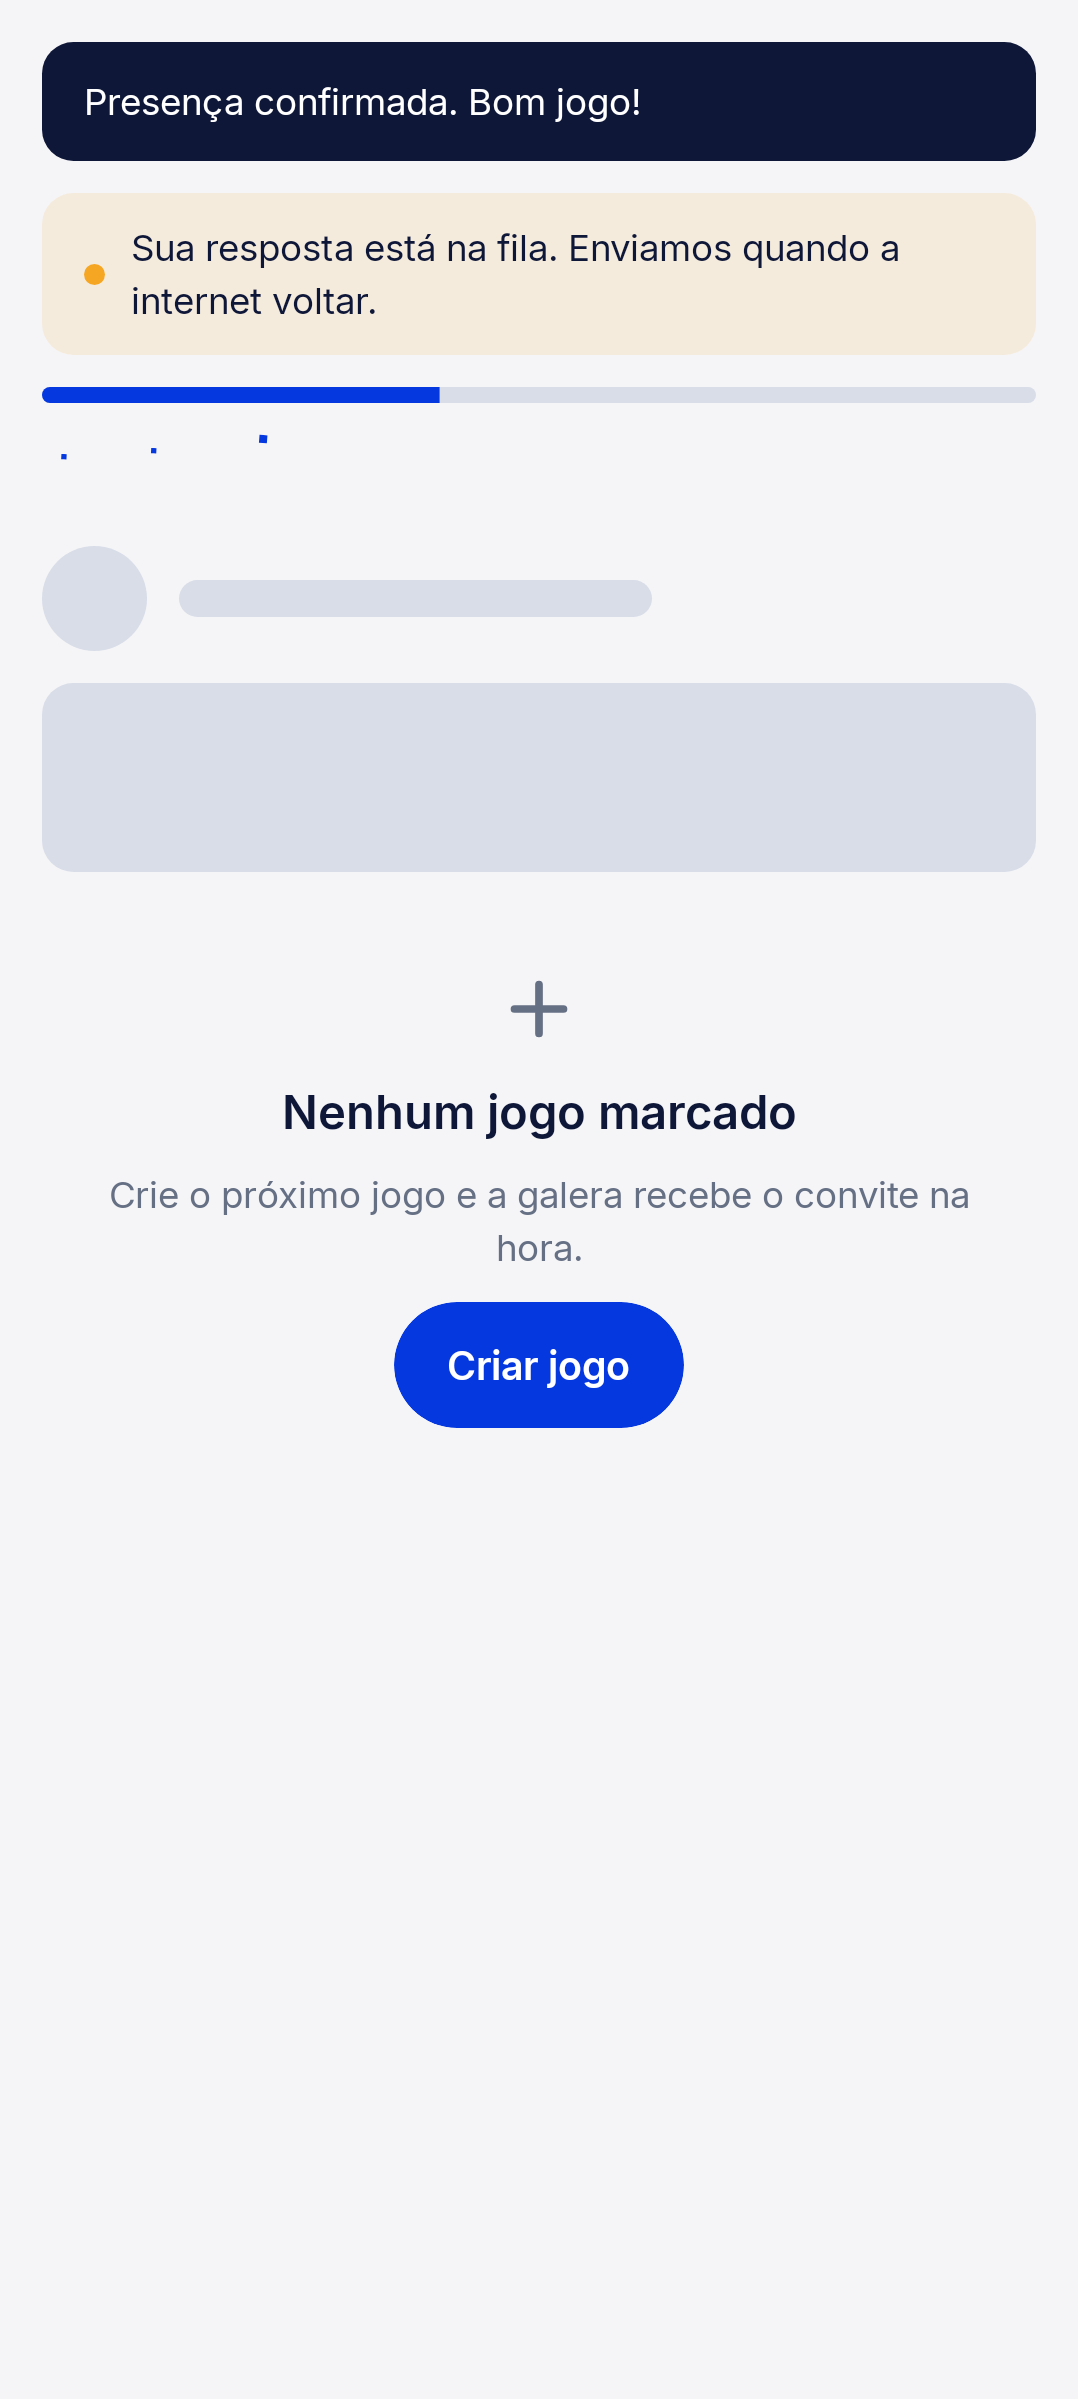
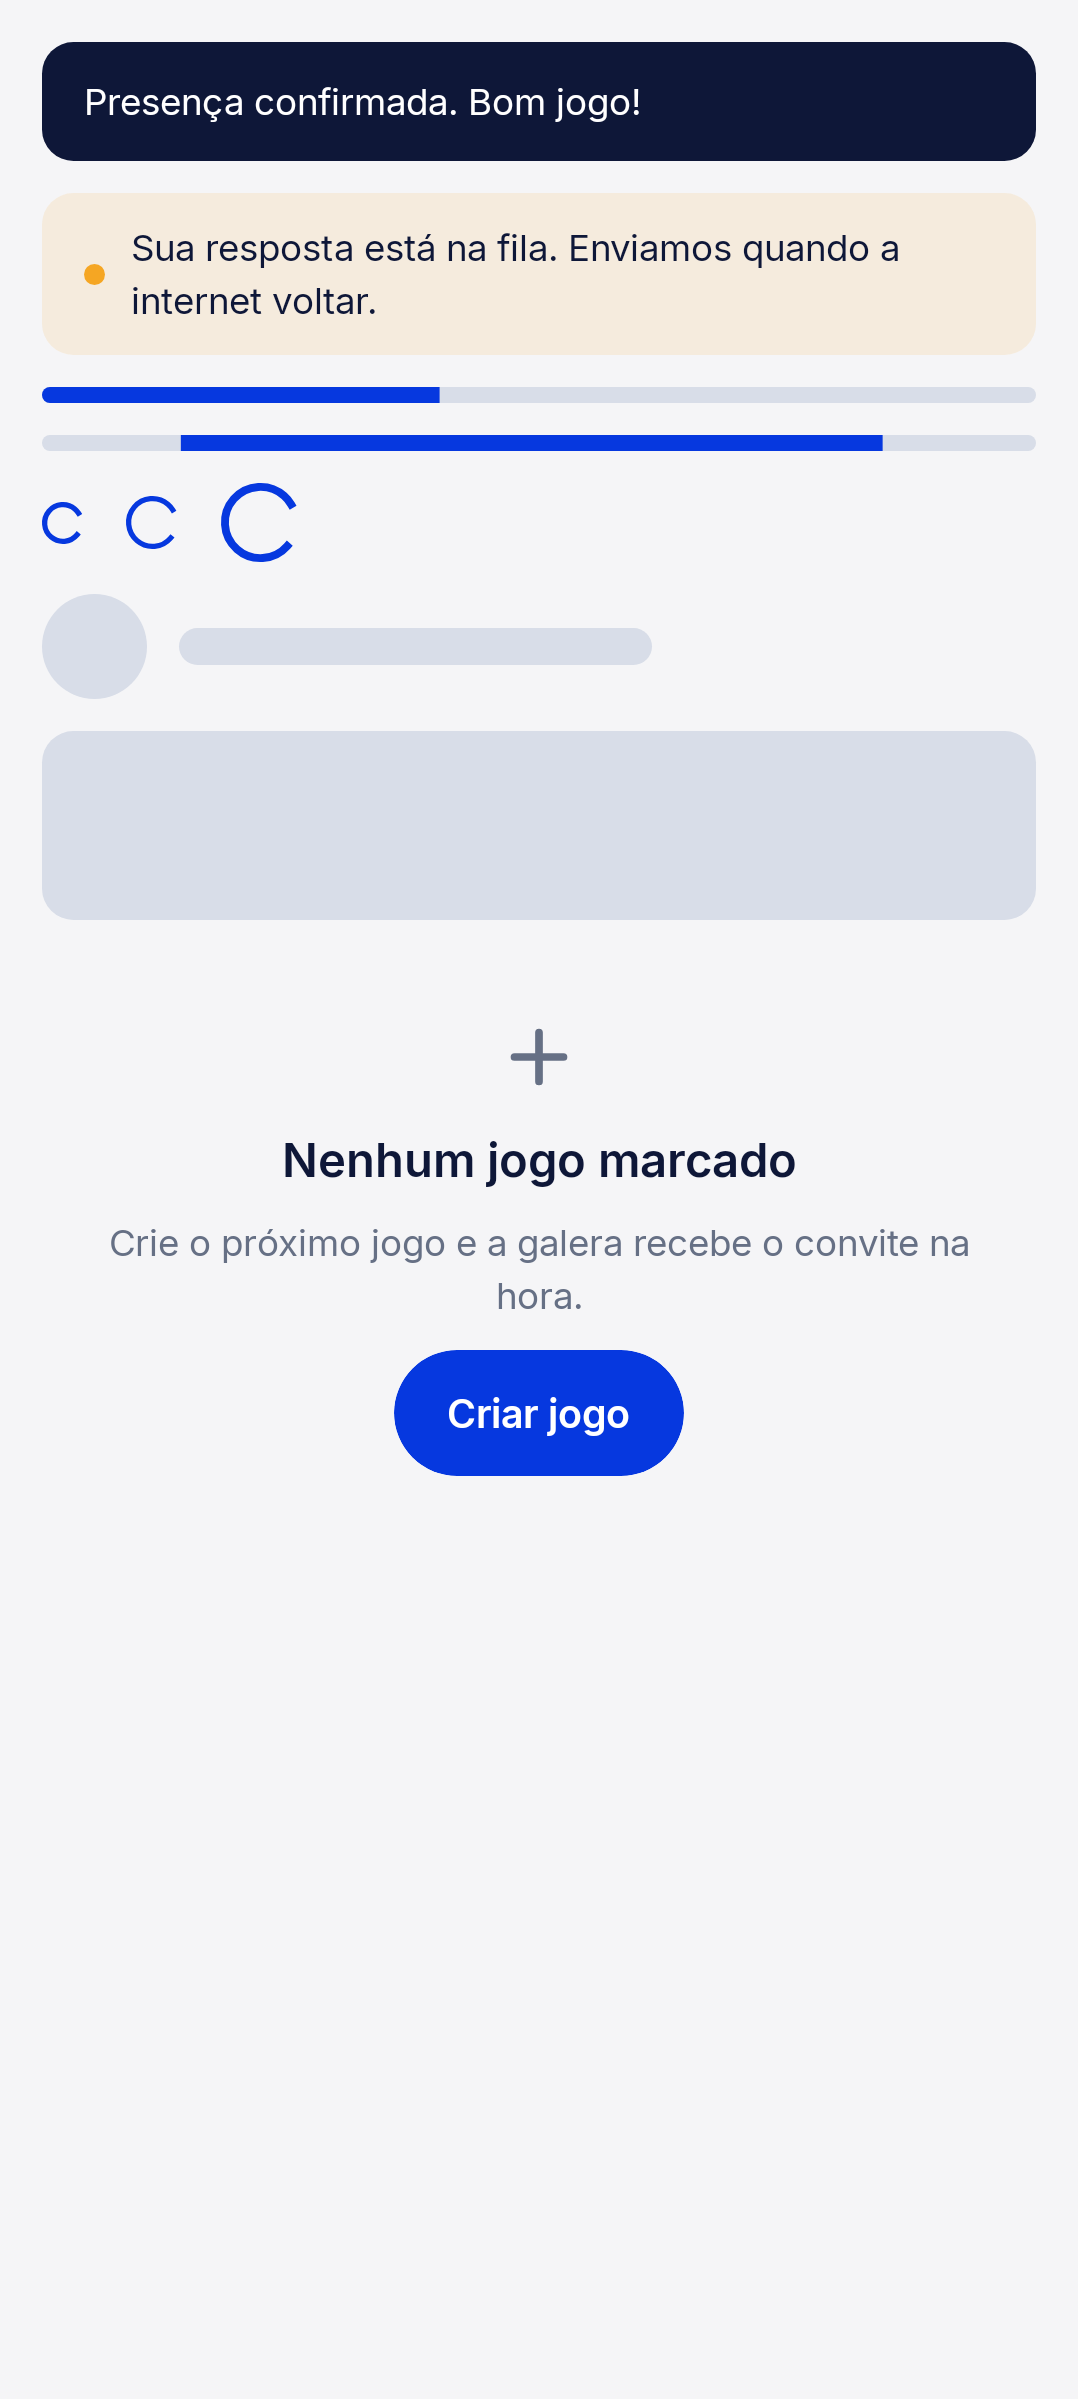
test(design-system): congela o obturador numa fase em que a animação aparece
Com autoAdvance ligado, o Robolectric fotografava o indeterminado no início do
ciclo — varredura ~0 — e os três spinners viravam pontos azuis soltos abaixo da
barra. O botão em loading tinha o mesmo sintoma.

Agora o relógio só anda quando mandam: autoAdvance desligado e um avanço fixo de
600ms, que é depois das transições de entrada e com o arco aberto. Golden
determinístico e legível.

A galeria também ganha a barra indeterminada, que faltava — o fluxo 10 mostra
"progresso — determinado e indeterminado" e só o determinado estava lá.

Changed region(s): [[0.0306, 0.3393, 0.9796, 0.6169], [0.0306, 0.1542, 0.9796, 0.3085]]

diff --git a/mobile/android-app/src/test/kotlin/br/com/saqz/androidapp/SaqzScreenshotTest.kt b/mobile/android-app/src/test/kotlin/br/com/saqz/androidapp/SaqzScreenshotTest.kt
@@ -83,14 +83,23 @@ import org.robolectric.annotation.GraphicsMode
 )
 class SaqzScreenshotTest {
 
+    private companion object {
+        // Fase do obturador. Transições de entrada (sheet 320ms, toast) já
+        // terminaram, e o arco do CircularProgressIndicator indeterminado está
+        // aberto — o ciclo dele é de 1332ms.
+        const val SHUTTER_MILLIS = 600L
+    }
+
     @get:Rule
     val compose = createComposeRule()
 
     private fun capture(name: String, content: @Composable () -> Unit) {
+        // autoAdvance desligado: o relógio só anda quando eu mando, então o quadro
+        // capturado é sempre o mesmo. Com ele ligado, o indeterminado é fotografado
+        // no início do ciclo — varredura ~0 — e o spinner vira um ponto.
+        compose.mainClock.autoAdvance = false
         compose.setContent { SaqzTheme { content() } }
-        // Deixa transições terminarem antes do obturador: golden estável entre runs.
-        compose.mainClock.advanceTimeBy(1_000)
-        compose.waitForIdle()
+        compose.mainClock.advanceTimeBy(SHUTTER_MILLIS)
         compose.onRoot().captureRoboImage("screenshots/$name.png")
     }
 
@@ -196,6 +205,7 @@ class SaqzScreenshotTest {
         }
         SaqzOfflineBanner()
         SaqzProgressBar(value = 0.4f)
+        SaqzProgressBar()
         Row(
             horizontalArrangement = Arrangement.spacedBy(16.dp),
             verticalAlignment = Alignment.CenterVertically,
